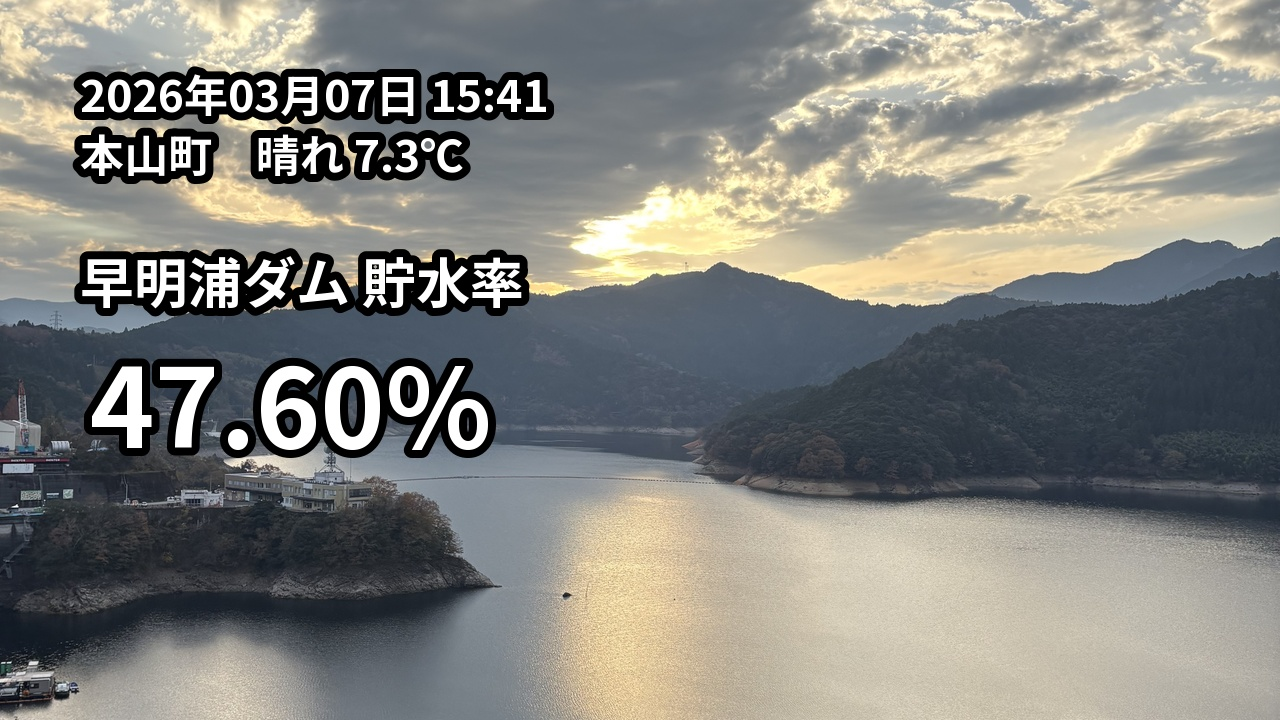
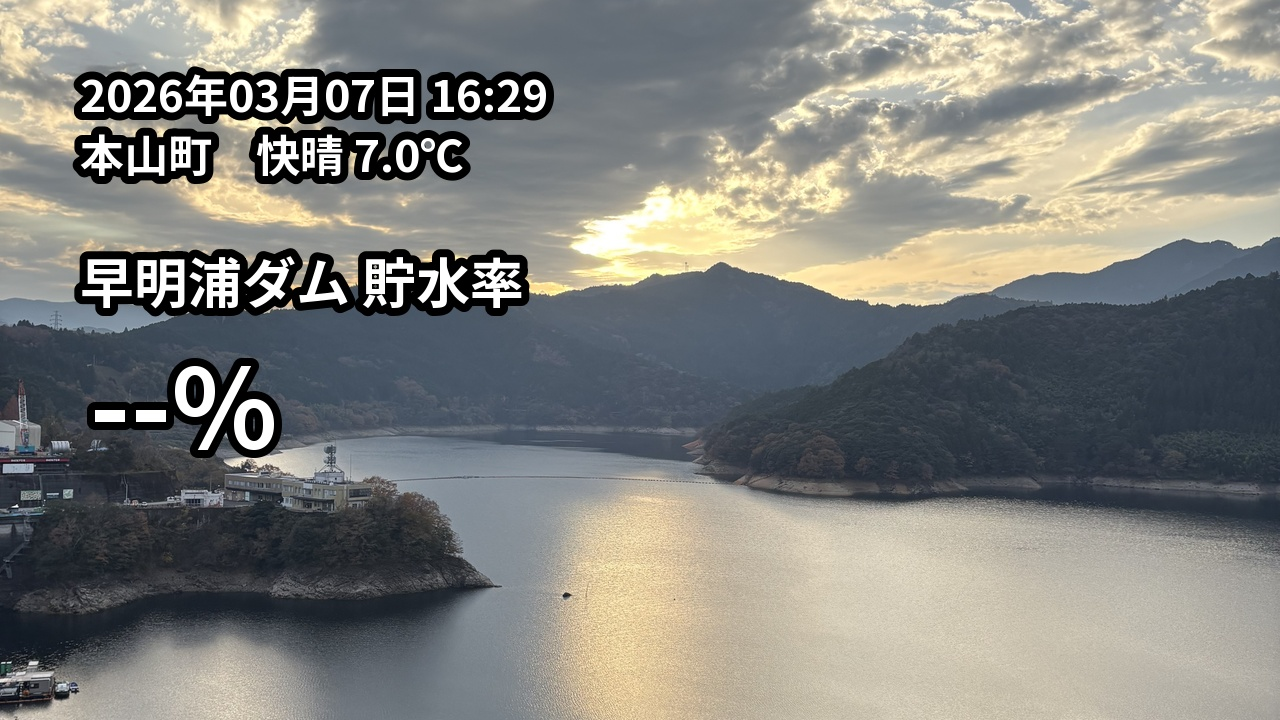
Update daily image

Changed region(s): [[0.0625, 0.4889, 0.4062, 0.6417], [0.1875, 0.1528, 0.3438, 0.275], [0.3438, 0.0917, 0.4375, 0.1833]]

diff --git a/index.html b/index.html
@@ -10,6 +10,6 @@
   </style>
 </head>
 <body>
-  <img src="result.jpg?v=202603071541" alt="早明浦ダム 貯水率" />
+  <img src="result.jpg?v=202603071629" alt="早明浦ダム 貯水率" />
 </body>
 </html>
